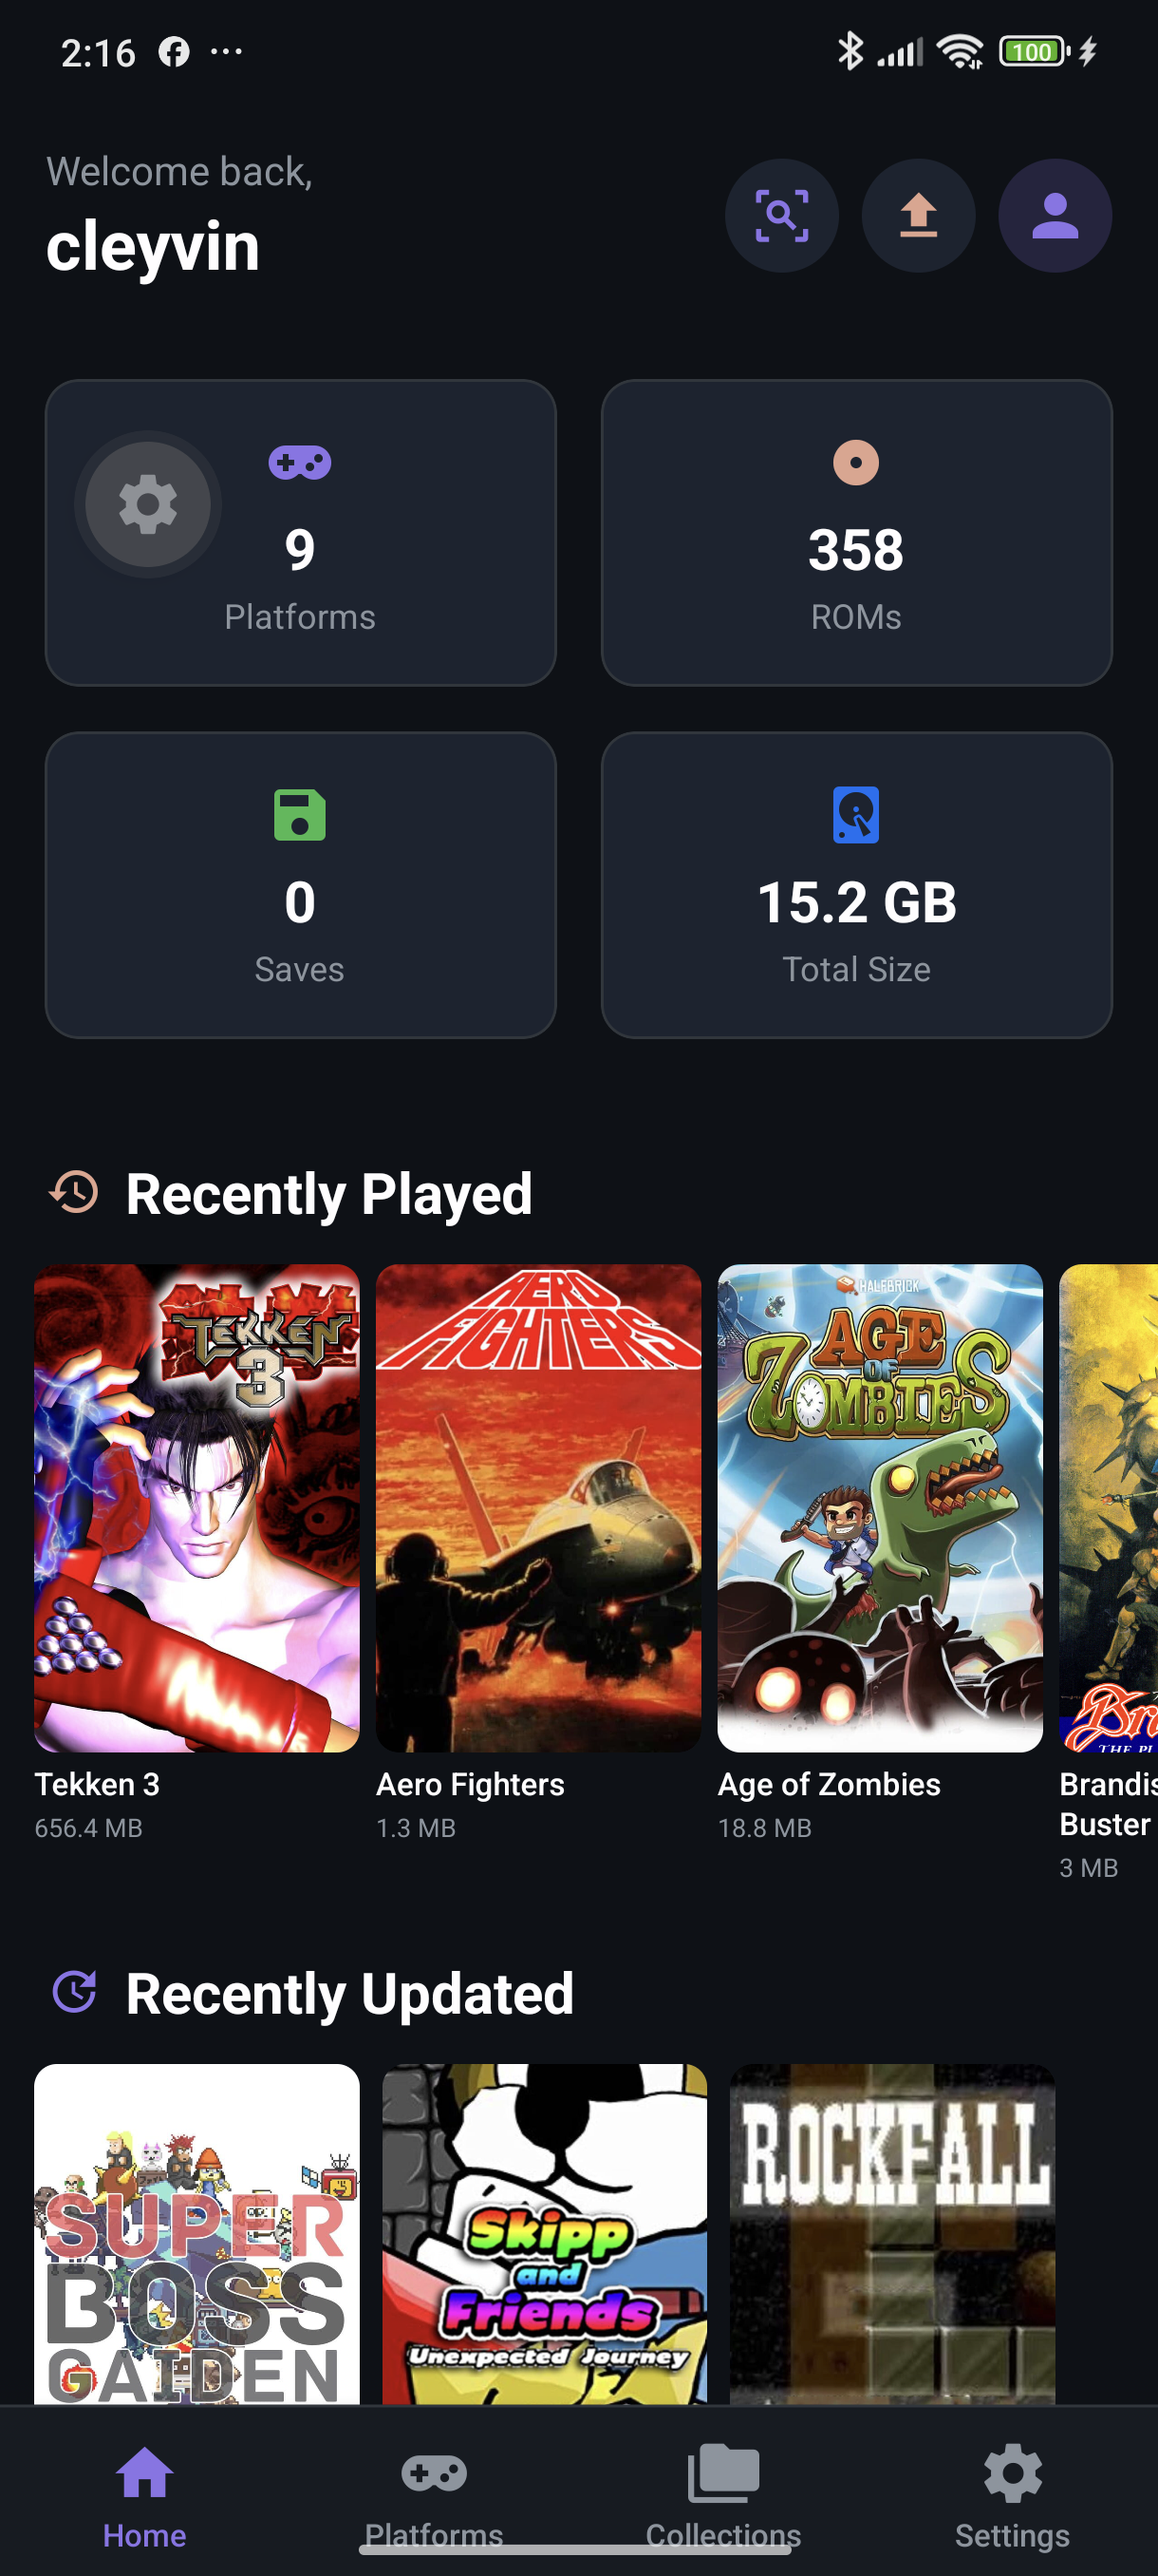
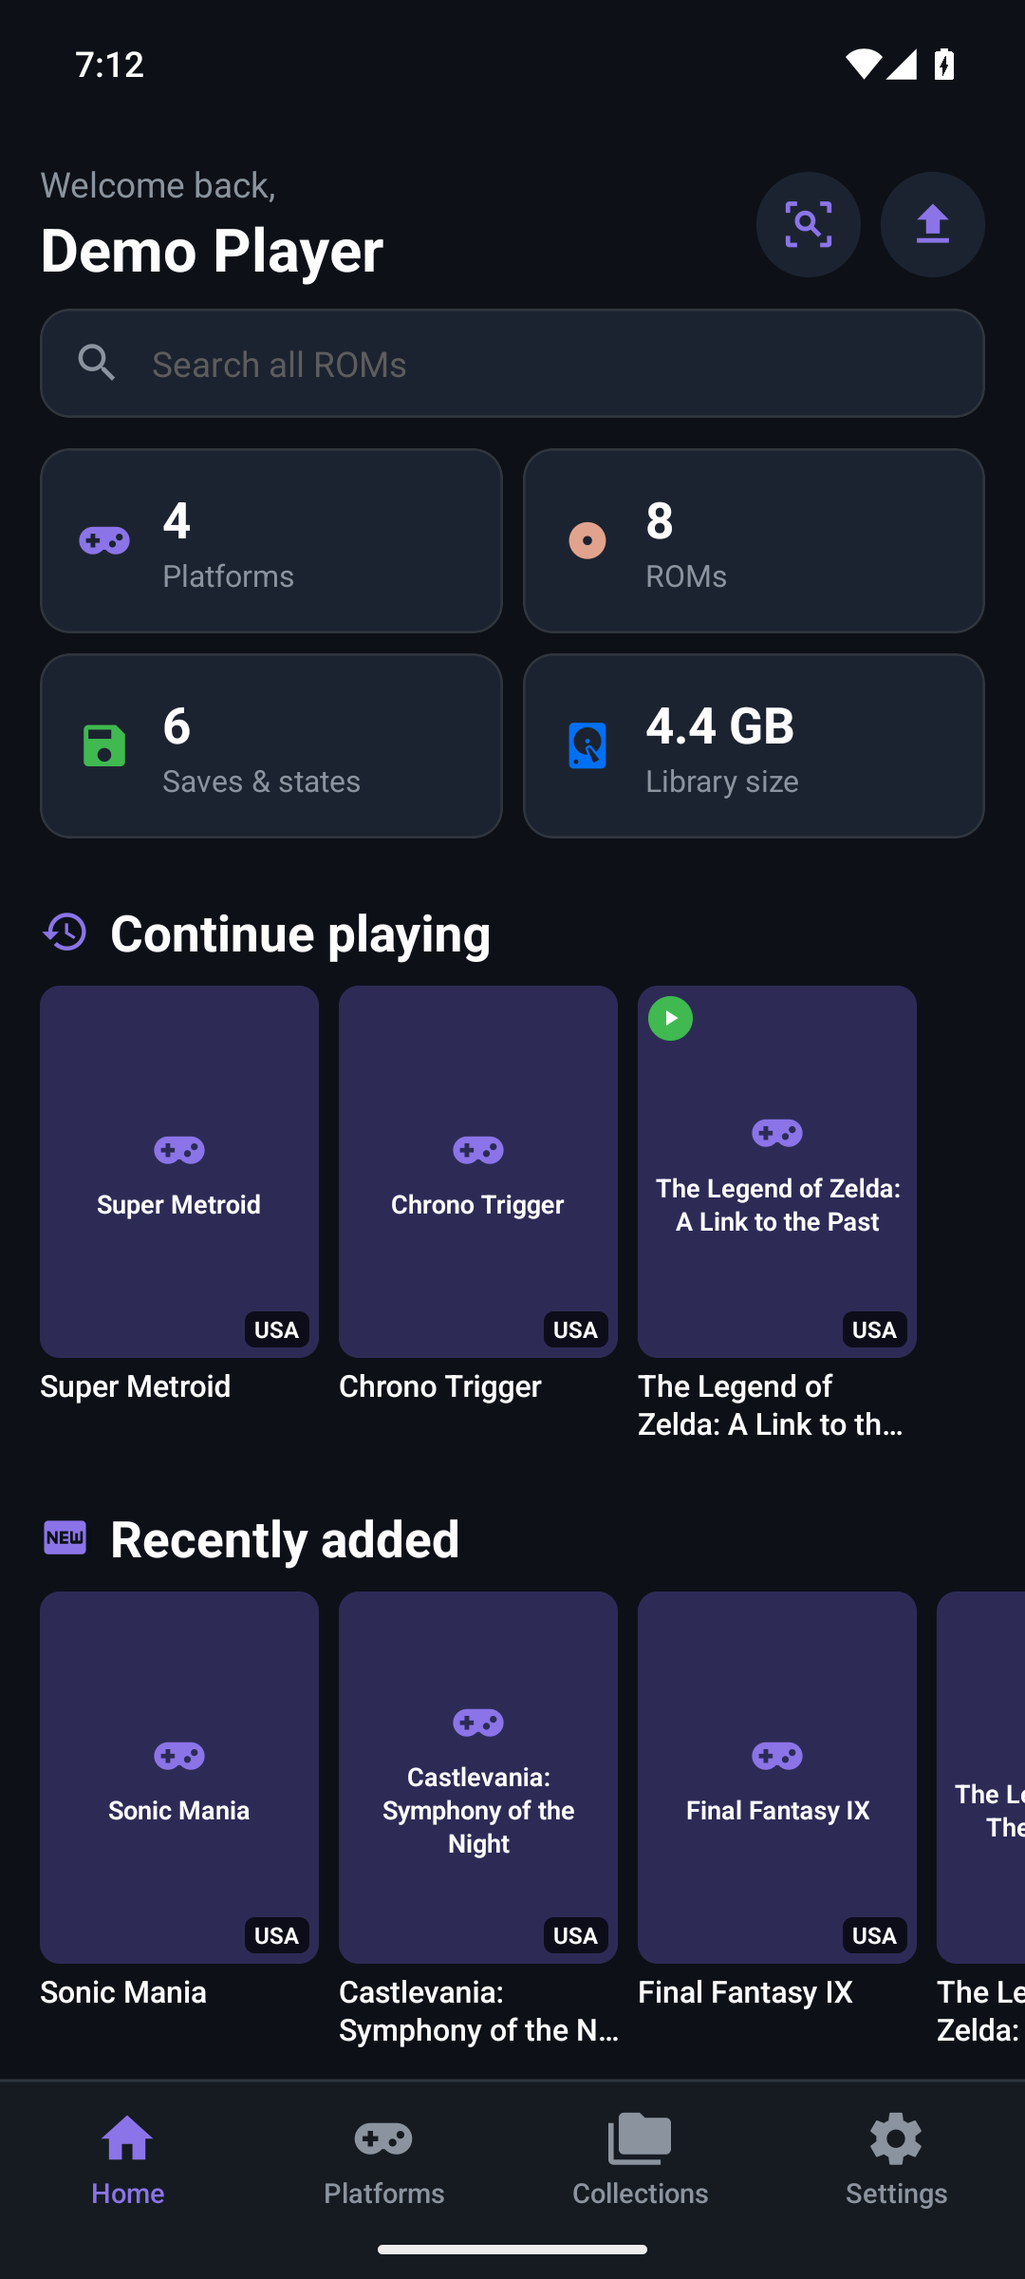
docs: refresh v0.6.0 app screenshots

diff --git a/README.md b/README.md
@@ -13,12 +13,16 @@ A mobile client for [RoMM](https://github.com/rommapp/romm) (ROM Manager) - brow
 ## Screenshots
 
 <p align="center">
-  <img src="docs/screenshots/server_config.png" width="200" alt="Server Config" />
-  <img src="docs/screenshots/login.png" width="200" alt="Login" />
-  <img src="docs/screenshots/home.png" width="200" alt="Home Dashboard" />
-  <img src="docs/screenshots/rom_detail.png" width="200" alt="ROM Detail" />
+  <img src="docs/screenshots/server_config.png" width="200" alt="Connect to a RoMM server" />
+  <img src="docs/screenshots/login.png" width="200" alt="Sign in with a RoMM API token" />
+  <img src="docs/screenshots/home.png" width="200" alt="Home dashboard with a demo library" />
+  <img src="docs/screenshots/platforms.png" width="200" alt="Browse platforms" />
+  <img src="docs/screenshots/collections.png" width="200" alt="Browse regular and smart collections" />
+  <img src="docs/screenshots/rom_detail.png" width="200" alt="ROM details and play progress" />
   <img src="docs/screenshots/emulator.png" width="200" alt="Emulator" />
 </p>
+
+The home and library screenshots use sample data.
 
 ---
 
